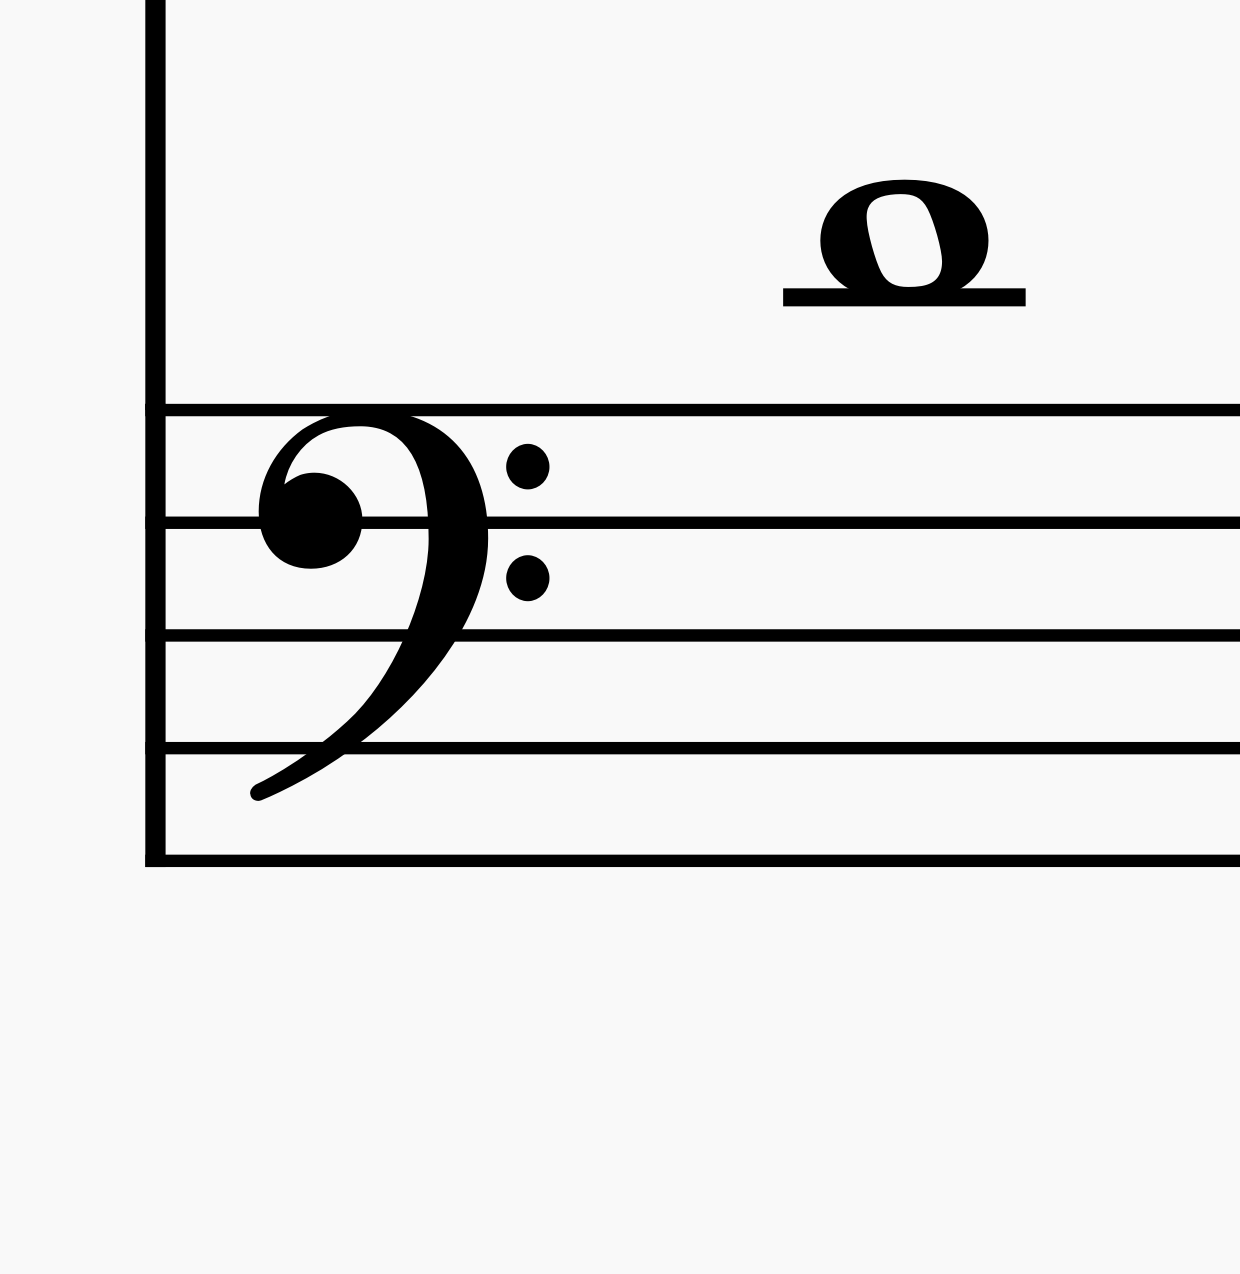
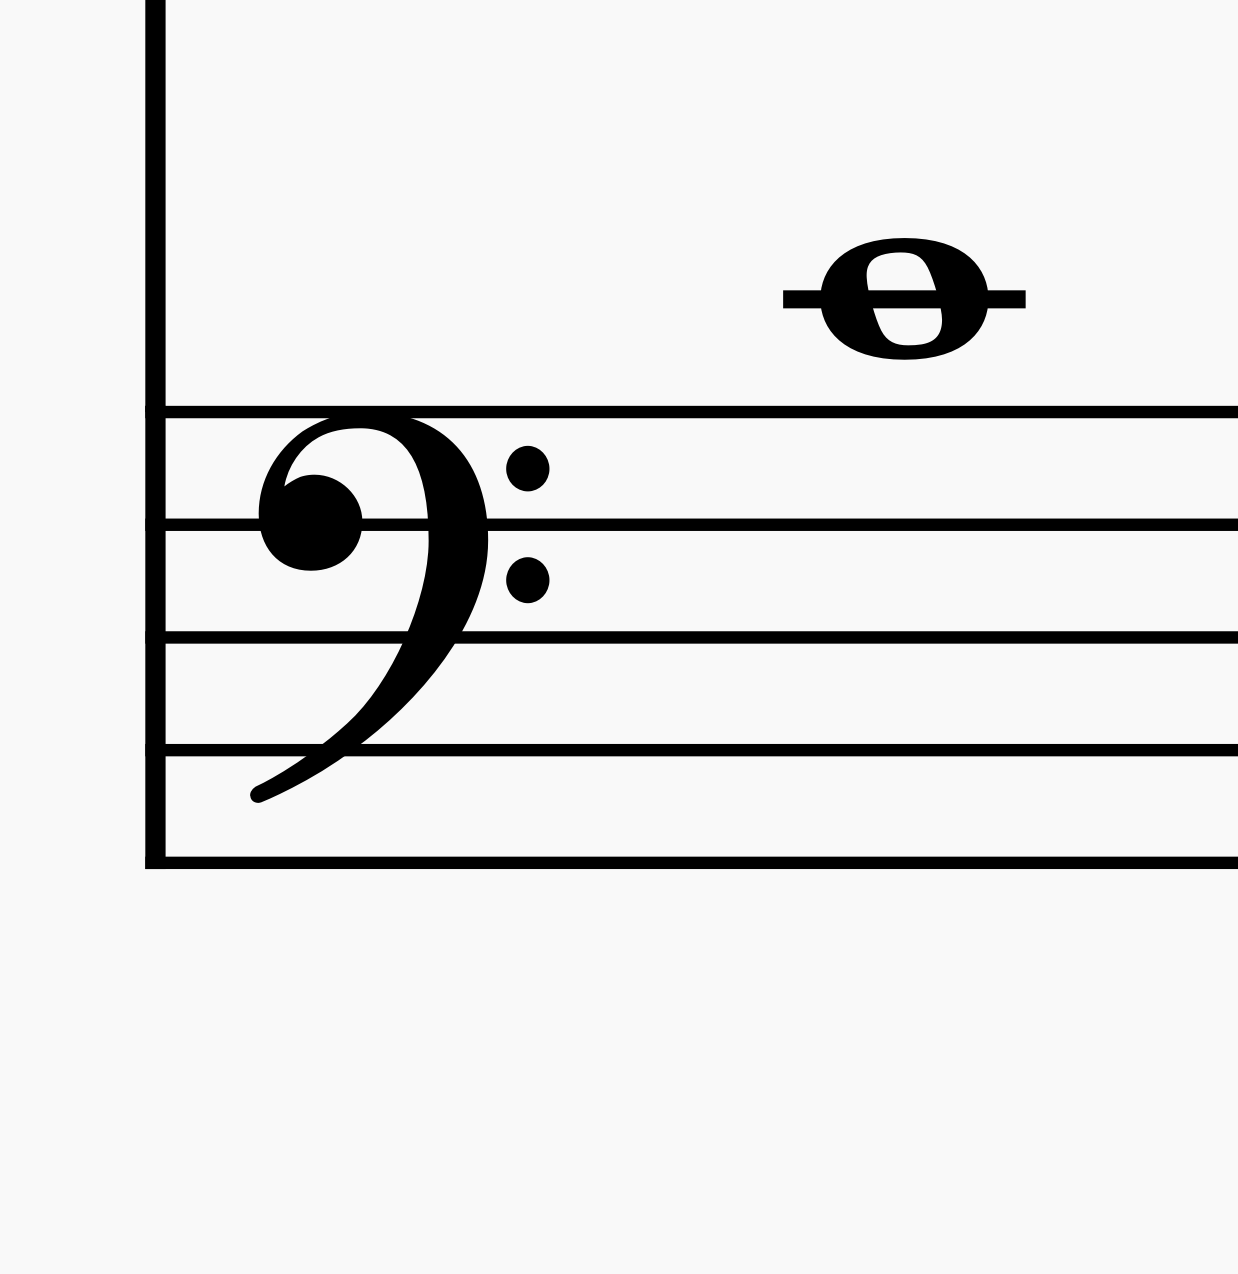
Re-label bass clef images: new B, shift C→D→E→high-high-F
User renamed files in build/notes/bass to shift the upper-register notes up by a step and introduced a new B image. Mirror those filenames into static/notes/bass and add the new bass-clef-high-high-F.png entry to BASS_NOTES so the pool now has 20 notes (matching treble).

diff --git a/src/lib/notes.js b/src/lib/notes.js
@@ -57,7 +57,8 @@ export const BASS_NOTES = [
 	{ id: 'D', letter: 'D', image: `${BASS_BASE}/bass-clef-D.png` },
 	{ id: 'E', letter: 'E', image: `${BASS_BASE}/bass-clef-E.png` },
 	// Above the bass staff (ledger lines)
-	{ id: 'high-F', letter: 'F', image: `${BASS_BASE}/bass-clef-high-F.png` }
+	{ id: 'high-F', letter: 'F', image: `${BASS_BASE}/bass-clef-high-F.png` },
+	{ id: 'high-high-F', letter: 'F', image: `${BASS_BASE}/bass-clef-high-high-F.png` }
 ];
 
 // ---------- Clef registry ----------
